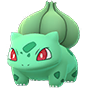
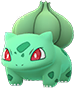
change shines

diff --git a/src/components/CombatPanel.jsx b/src/components/CombatPanel.jsx
@@ -23,18 +23,6 @@ class CombatPanel extends React.Component {
     componentWillReceiveProps(props) {
     }
 
-    isShiny(pokemon) {
-        const shinies = PokedexHelper.getShinies()
-
-        if (shinies.indexOf(pokemon.id) !== -1) {
-            return (
-                <img src="../assets/images/shiny_true.png" className="shiny" />
-            );
-        }
-
-        return null
-    }
-
     generateTable(title, rows) {
 
         return (
@@ -186,7 +174,6 @@ class CombatPanel extends React.Component {
             <div className={ 'info-container info-back-' + typeKey }>
                 { this.generateShinyButton(pokemon) }
                 <div className='info-cp-label'>PC<span className='info-cp-value'>{ pokemon.cpmax }</span></div>
-                { this.isShiny(pokemon) }
                 <div className='info-cp-circle'>
                     <div className='info-pokemon-img' style={ styles }/>
                 </div>

diff --git a/assets/styles/styles.css b/assets/styles/styles.css
@@ -66,14 +66,6 @@ input {
     background-image: url(../images/favicon.png);
 }
 
-.shiny {
-    position: absolute;
-    top: 155px;
-    left: 25px;
-    width: 30px;
-    height: 30px;
-}
-
 /*---------------------------------------------------------------------*/
 /*  ATTACK PANEL
 /*---------------------------------------------------------------------*/
@@ -824,7 +816,7 @@ h2, .inactive-h2 {
 }
 
 .shiny-button, .shiny-button-pressed {
-    background-image: url(../images/ic_shiny0.png);
+    background-image: url(../images/shiny_false.png);
     background-repeat: no-repeat;
     background-position: center;
     background-size: 2em;
@@ -838,7 +830,7 @@ h2, .inactive-h2 {
 }
 
 .shiny-button-pressed {
-    background-image: url(../images/ic_shiny1.png);
+    background-image: url(../images/shiny_true.png);
 }
 
 .info-pokemon-img {
